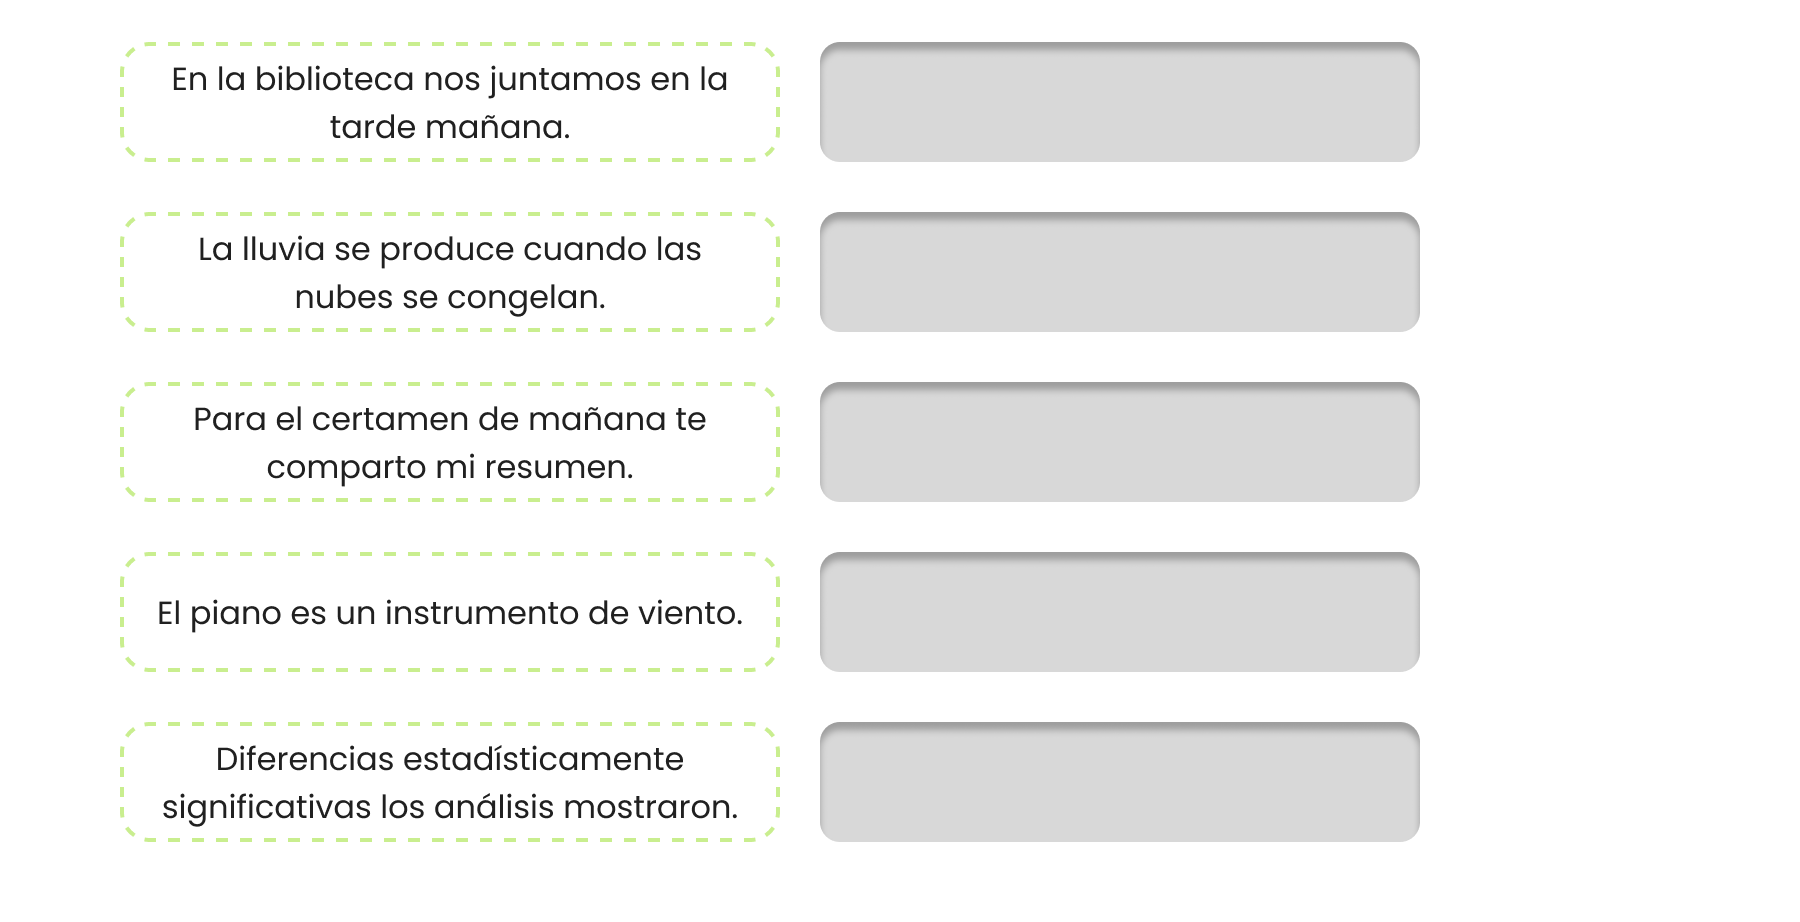
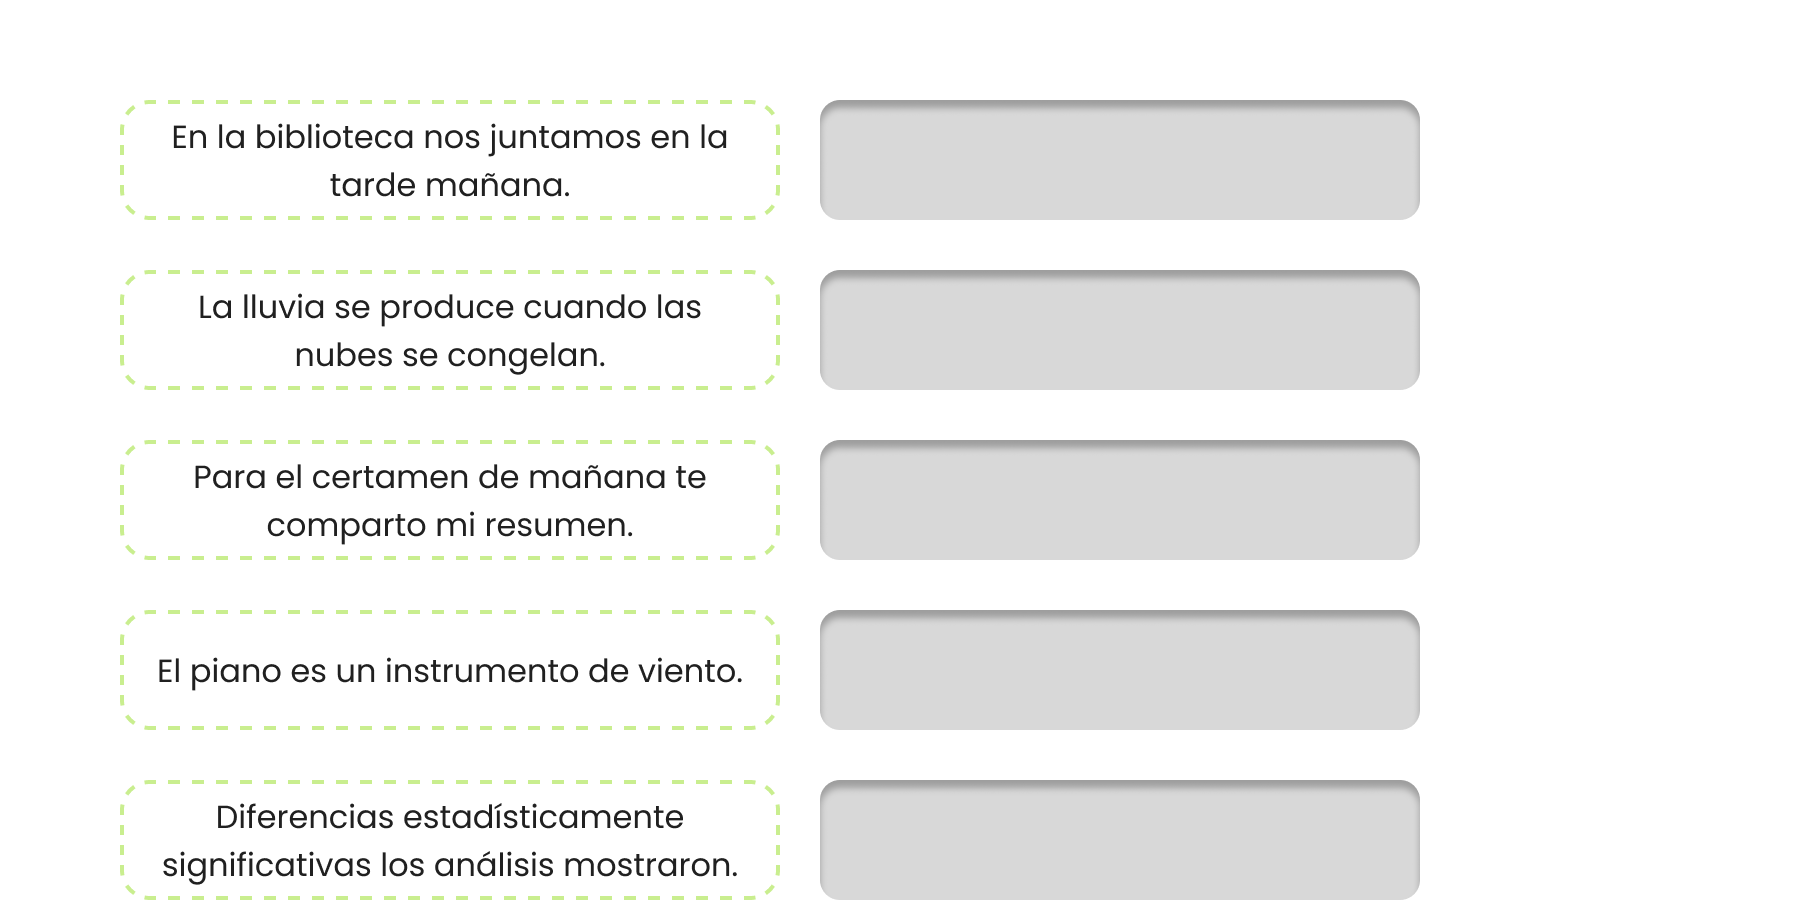
Fix: correcciones 13/04/26

Changed region(s): [[0.0622, 0.0304, 0.8089, 0.9739], [0.4356, 0.913, 0.8089, 1.0]]

diff --git a/standalone/resources/m3/l1/m3_l1_r5/H5P.DragShuffle-1.0/css/dragquestion.css b/standalone/resources/m3/l1/m3_l1_r5/H5P.DragShuffle-1.0/css/dragquestion.css
@@ -57,7 +57,7 @@ html.h5p-iframe .h5p-container.h5p-dragquestion.h5p-semi-fullscreen {
 .h5p-dragquestion .h5p-draggable {
   /*border-radius: 0.25em;
   border: 0.1em solid #c6c6c6;*/
-  border-radius: 0.6em; /*nuevo*/
+  border-radius: 0.7em; /*nuevo*/
   cursor: pointer;
   position: absolute;
   text-align: center;
@@ -328,4 +328,9 @@ html.h5p-iframe .h5p-container.h5p-dragquestion.h5p-semi-fullscreen {
 .h5p-dragquestion .h5p-question-introduction,
 .h5p-dragquestion .h5p-question-scorebar {
   display: none !important;
+}
+
+.h5p-element .h5p-dragquestion .h5p-question-content,
+.h5p-element .h5p-dragquestion .h5p-question-content .h5p-inner {
+  height: 100% !important;
 }

diff --git a/standalone/resources/m3/l6/m3_l6_i1/H5P.CoursePresentation-1.26/dist/h5p-course-presentation.css b/standalone/resources/m3/l6/m3_l6_i1/H5P.CoursePresentation-1.26/dist/h5p-course-presentation.css
@@ -1862,3 +1862,17 @@
 .h5p-course-presentation .h5p-popup-container .h5p-popup-wrapper {
     height: 100%;
 }
+
+/*Se centran las imágenes que se muestran como modal*/
+.h5p-course-presentation .h5p-popup-container:has(.h5p-popup-wrapper .h5p-image) {
+    background-color: rgba(0,0,0,.7);
+}
+
+.h5p-course-presentation .h5p-popup-container .h5p-popup-wrapper:has(.h5p-image) {
+    display: flex;
+    align-items: center;
+}
+
+.h5p-course-presentation .h5p-popup-container .h5p-popup-wrapper:has(.h5p-image) .h5p-image {
+    height: fit-content;
+}

diff --git a/standalone/resources/m3/l6/m3_l6_i10/H5P.CoursePresentation-1.26/dist/h5p-course-presentation.css b/standalone/resources/m3/l6/m3_l6_i10/H5P.CoursePresentation-1.26/dist/h5p-course-presentation.css
@@ -1862,3 +1862,17 @@
 .h5p-course-presentation .h5p-popup-container .h5p-popup-wrapper {
     height: 100%;
 }
+
+/*Se centran las imágenes que se muestran como modal*/
+.h5p-course-presentation .h5p-popup-container:has(.h5p-popup-wrapper .h5p-image) {
+    background-color: rgba(0,0,0,.7);
+}
+
+.h5p-course-presentation .h5p-popup-container .h5p-popup-wrapper:has(.h5p-image) {
+    display: flex;
+    align-items: center;
+}
+
+.h5p-course-presentation .h5p-popup-container .h5p-popup-wrapper:has(.h5p-image) .h5p-image {
+    height: fit-content;
+}

diff --git a/standalone/resources/m3/l6/m3_l6_i12/H5P.CoursePresentation-1.26/dist/h5p-course-presentation.css b/standalone/resources/m3/l6/m3_l6_i12/H5P.CoursePresentation-1.26/dist/h5p-course-presentation.css
@@ -1862,3 +1862,17 @@
 .h5p-course-presentation .h5p-popup-container .h5p-popup-wrapper {
     height: 100%;
 }
+
+/*Se centran las imágenes que se muestran como modal*/
+.h5p-course-presentation .h5p-popup-container:has(.h5p-popup-wrapper .h5p-image) {
+    background-color: rgba(0,0,0,.7);
+}
+
+.h5p-course-presentation .h5p-popup-container .h5p-popup-wrapper:has(.h5p-image) {
+    display: flex;
+    align-items: center;
+}
+
+.h5p-course-presentation .h5p-popup-container .h5p-popup-wrapper:has(.h5p-image) .h5p-image {
+    height: fit-content;
+}

diff --git a/standalone/resources/m3/l6/m3_l6_i2/H5P.CoursePresentation-1.26/dist/h5p-course-presentation.css b/standalone/resources/m3/l6/m3_l6_i2/H5P.CoursePresentation-1.26/dist/h5p-course-presentation.css
@@ -1862,3 +1862,17 @@
 .h5p-course-presentation .h5p-popup-container .h5p-popup-wrapper {
     height: 100%;
 }
+
+/*Se centran las imágenes que se muestran como modal*/
+.h5p-course-presentation .h5p-popup-container:has(.h5p-popup-wrapper .h5p-image) {
+    background-color: rgba(0,0,0,.7);
+}
+
+.h5p-course-presentation .h5p-popup-container .h5p-popup-wrapper:has(.h5p-image) {
+    display: flex;
+    align-items: center;
+}
+
+.h5p-course-presentation .h5p-popup-container .h5p-popup-wrapper:has(.h5p-image) .h5p-image {
+    height: fit-content;
+}

diff --git a/standalone/resources/m3/l6/m3_l6_i3/H5P.CoursePresentation-1.26/dist/h5p-course-presentation.css b/standalone/resources/m3/l6/m3_l6_i3/H5P.CoursePresentation-1.26/dist/h5p-course-presentation.css
@@ -1862,3 +1862,17 @@
 .h5p-course-presentation .h5p-popup-container .h5p-popup-wrapper {
     height: 100%;
 }
+
+/*Se centran las imágenes que se muestran como modal*/
+.h5p-course-presentation .h5p-popup-container:has(.h5p-popup-wrapper .h5p-image) {
+    background-color: rgba(0,0,0,.7);
+}
+
+.h5p-course-presentation .h5p-popup-container .h5p-popup-wrapper:has(.h5p-image) {
+    display: flex;
+    align-items: center;
+}
+
+.h5p-course-presentation .h5p-popup-container .h5p-popup-wrapper:has(.h5p-image) .h5p-image {
+    height: fit-content;
+}

diff --git a/standalone/resources/m3/l6/m3_l6_i5/H5P.CoursePresentation-1.26/dist/h5p-course-presentation.css b/standalone/resources/m3/l6/m3_l6_i5/H5P.CoursePresentation-1.26/dist/h5p-course-presentation.css
@@ -1862,3 +1862,17 @@
 .h5p-course-presentation .h5p-popup-container .h5p-popup-wrapper {
     height: 100%;
 }
+
+/*Se centran las imágenes que se muestran como modal*/
+.h5p-course-presentation .h5p-popup-container:has(.h5p-popup-wrapper .h5p-image) {
+    background-color: rgba(0,0,0,.7);
+}
+
+.h5p-course-presentation .h5p-popup-container .h5p-popup-wrapper:has(.h5p-image) {
+    display: flex;
+    align-items: center;
+}
+
+.h5p-course-presentation .h5p-popup-container .h5p-popup-wrapper:has(.h5p-image) .h5p-image {
+    height: fit-content;
+}

diff --git a/standalone/resources/m3/l6/m3_l6_i9/H5P.CoursePresentation-1.26/dist/h5p-course-presentation.css b/standalone/resources/m3/l6/m3_l6_i9/H5P.CoursePresentation-1.26/dist/h5p-course-presentation.css
@@ -1862,3 +1862,17 @@
 .h5p-course-presentation .h5p-popup-container .h5p-popup-wrapper {
     height: 100%;
 }
+
+/*Se centran las imágenes que se muestran como modal*/
+.h5p-course-presentation .h5p-popup-container:has(.h5p-popup-wrapper .h5p-image) {
+    background-color: rgba(0,0,0,.7);
+}
+
+.h5p-course-presentation .h5p-popup-container .h5p-popup-wrapper:has(.h5p-image) {
+    display: flex;
+    align-items: center;
+}
+
+.h5p-course-presentation .h5p-popup-container .h5p-popup-wrapper:has(.h5p-image) .h5p-image {
+    height: fit-content;
+}

diff --git a/standalone/resources/m3/l1/m3_l1_r5/H5P.CoursePresentation-1.26/dist/h5p-course-presentation.css b/standalone/resources/m3/l1/m3_l1_r5/H5P.CoursePresentation-1.26/dist/h5p-course-presentation.css
@@ -1169,10 +1169,10 @@
 }
 
 .h5p-course-presentation .h5p-summary-table-holder {
-    /*height: calc(100% - 4.5em);
-    margin: 1em;*/
-    height: calc(100% - 6.5em); /*nuevo*/
-    margin: 4em 1em 0 1em; /*nuevo*/
+    height: calc(100% - 7.5em);
+    margin: 3em 1em 1em 1em;
+    /*height: calc(100% - 6.5em); /*nuevo*/
+    /*margin: 4em 1em 0 1em; /*nuevo*/
 }
 
 .h5p-course-presentation .h5p-summary-table-pages {

diff --git a/standalone/resources/m3/l1/m3_l1_r5/H5P.MarkTheWords-1.11/styles/mark-the-words.css b/standalone/resources/m3/l1/m3_l1_r5/H5P.MarkTheWords-1.11/styles/mark-the-words.css
@@ -157,7 +157,8 @@ button.h5p-retry-button.h5p-retry-button {
 .h5p-mark-the-words .h5p-word-selectable-words p:nth-child(4),
 .h5p-mark-the-words .h5p-word-selectable-words p:nth-child(6),
 .h5p-mark-the-words .h5p-word-selectable-words p:nth-child(8) {
-  margin: 0 0 1.55em;
+  /*margin: 0 0 1.55em;*/
+  margin: 0 0 1.45em; /*nuevo*/
 }
 
 .h5p-mark-the-words .h5p-word-selectable-words p:nth-child(10) {

diff --git a/standalone/resources/m3/l1/m3_l1_r5/H5P.Customize-1.0/customize.css b/standalone/resources/m3/l1/m3_l1_r5/H5P.Customize-1.0/customize.css
@@ -8,14 +8,11 @@ definir una imágen de fondo para las diapos, esta se deforma y queda mal.*/
     background-color: #f8feef;
 }
 
-.h5p-wrapper {
-    margin: 2em 0 0 0 !important;
-}
-
 .check-btn-container {
     width: 99%;
     text-align: right;
     padding-bottom: 1em;
+    margin-top: -3em;
 }
 
 .check-btn {

diff --git a/standalone/resources/m3/l1/m3_l1_r5/H5P.Question-1.5/styles/question.css b/standalone/resources/m3/l1/m3_l1_r5/H5P.Question-1.5/styles/question.css
@@ -116,7 +116,8 @@
 }
 
 .h5p-question-content {
-  margin: 1em;
+  /*margin: 1em;*/
+  margin: 0; /*nuevo*/
 }
 
 .h5p-question-content.h5p-has-question-popup {
